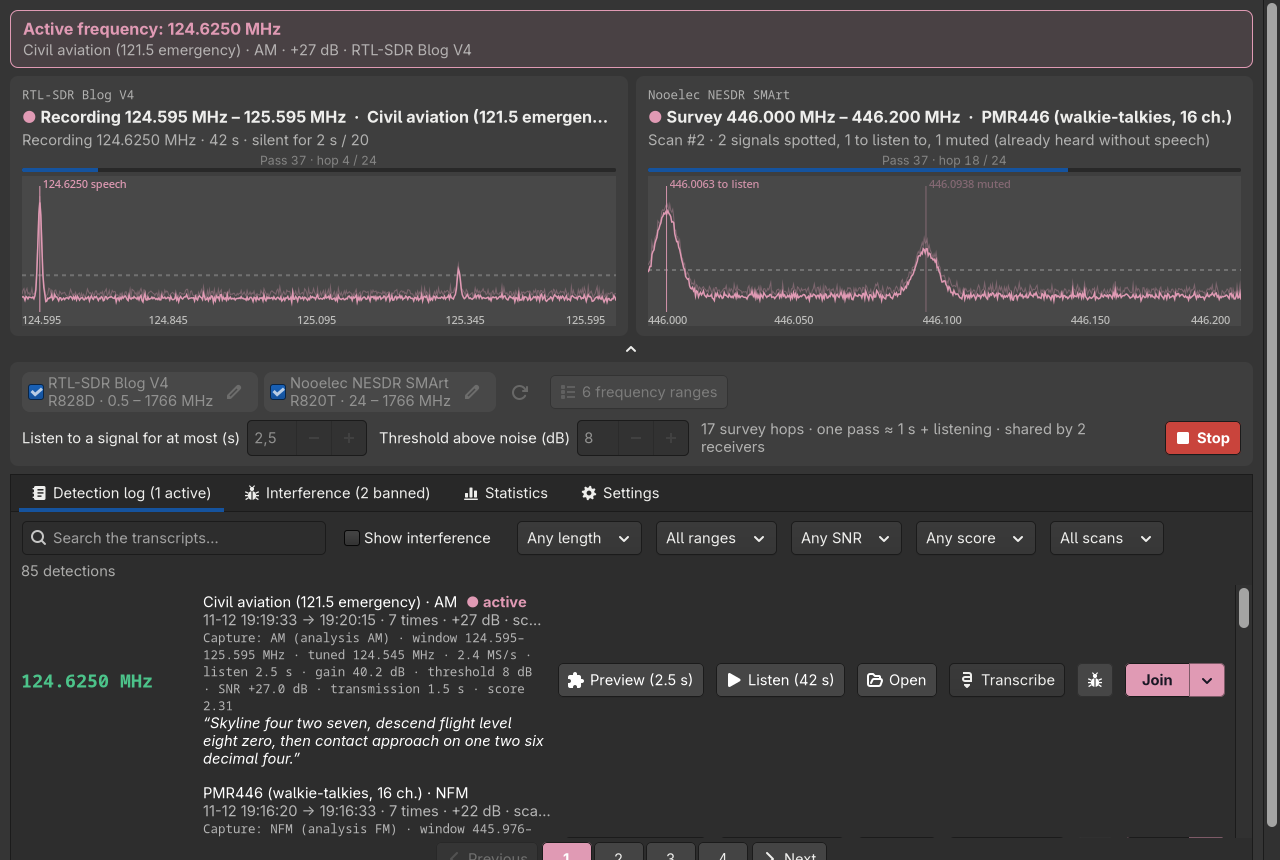
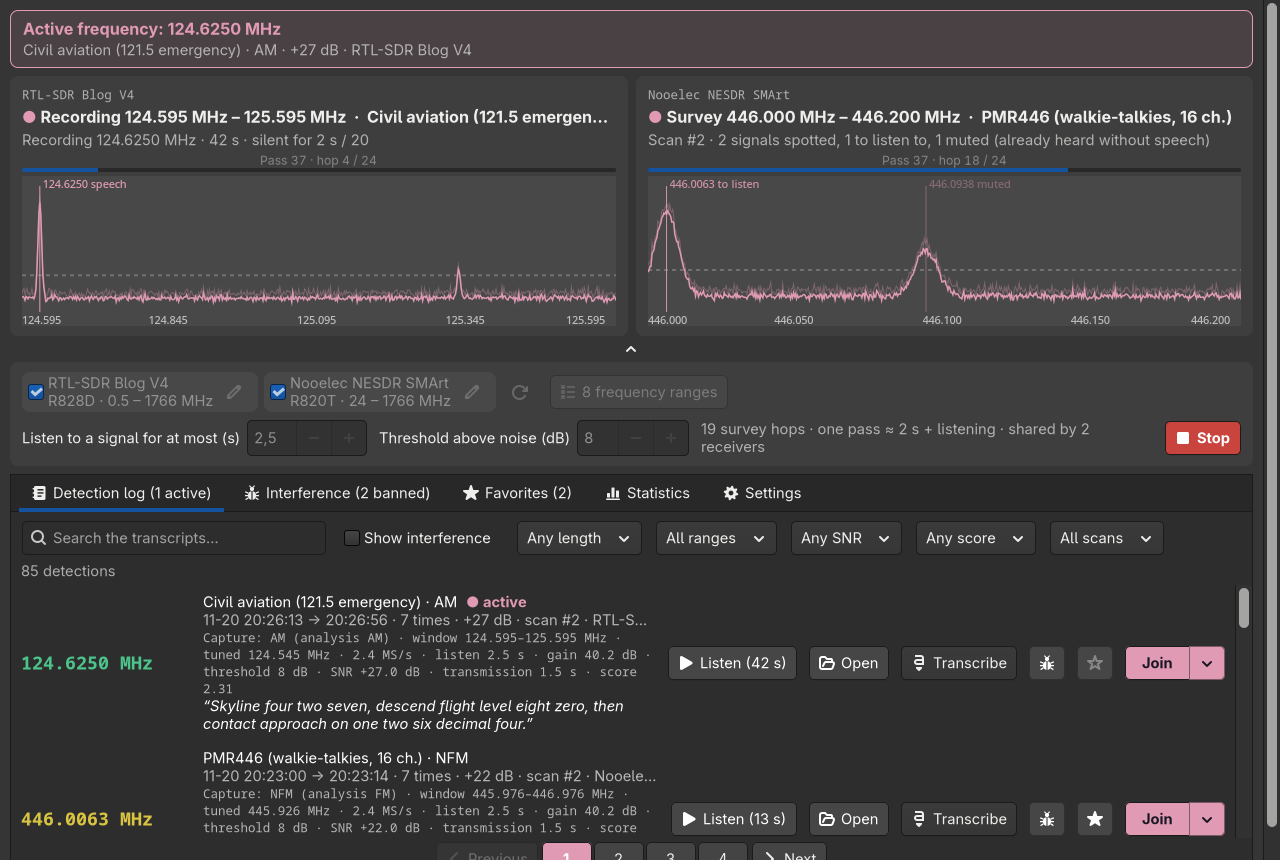
Docs: favorites
The README's Features and screenshots, AGENT.md's notes on the weighted
scan plan and the refused list, the design and the plan.

diff --git a/docs/superpowers/plans/2026-11-20-favorites.md b/docs/superpowers/plans/2026-11-20-favorites.md
@@ -1,0 +1,181 @@
+# Favorites Implementation Plan
+
+> **For agentic workers:** REQUIRED SUB-SKILL: Use superpowers:subagent-driven-development (recommended) or superpowers:executing-plans to implement this plan task-by-task. Steps use checkbox (`- [ ]`) syntax for tracking.
+
+**Goal:** Favorite frequencies (starred by hand or added automatically) that the scan visits 4 times per pass, a Favorites tab, and one play button per log row.
+
+**Architecture:** A favorite is a narrow `Band` carrying a `favorite` field ("manual" / "auto") in `ranges.json`. `ScanState` gives favorite hops a weight and spreads their extra visits through the pass. Pure helpers at module level hold the favorite rules (toggle, refused list, auto-add count), so they are tested without GTK; the window only wires them to a star button, a tab and a setting.
+
+**Tech Stack:** Python 3.8, numpy, PyGObject GTK 4, SQLite, `unittest`. Single file `archangesdr`.
+
+**Spec:** `docs/superpowers/specs/2026-11-20-favorites-design.md`
+
+## Global Constraints
+
+- One Python file `archangesdr`, no new dependency, Python 3.8 syntax (check: `python3 -c "import ast; ast.parse(open('archangesdr').read(), feature_version=(3, 8))"`).
+- GTK 4.0+ API; newer calls behind a check. Icons `starred-symbolic` / `non-starred-symbolic` (Adwaita, present since GTK 4.0 themes).
+- Constants at the top of the file with unit and reason: `FAVORITE_WEIGHT = 4`, `FAVORITE_AUTO_N = 5`, `FAVORITE_HALF_HZ = 6_250`.
+- Every new string in `lang/en.sh`, `fr.sh`, `de.sh`, `es.sh` with the same %-arguments (bash syntax, `'\''` for a quote).
+- Lists are updated row by row (`App.sync`); the Favorites tab is built only while shown; no whole-list rebuild on a star click.
+- English in code, comments, docs and commit messages. The README and AGENT.md change in the same commit as the code they describe.
+- Never touch the user's history in tests: use `tests.support.app()` and a temporary `Store`.
+- Work on the current branch (`standalone-only`); the user asked for no new branch.
+
+## Review Focus
+
+1. **Starring while a scan runs**: the new favorite's hop is appended live; receivers keep scanning, claim indices of other hops stay valid. → test in Task 2.
+2. **Removing a favorite whose hop is claimed right now** by a receiver: no crash, the hop is never picked again, `release` on it still works. → test in Task 2.
+3. **Starring a frequency 1 key away from an existing favorite** (e.g. 446.00625 vs 446.0125 MHz): no second favorite; the star shows filled. → test in Task 1.
+4. **"Replace with the region's ranges"** in the ranges dialog (`confirm_preset`) must keep the favorites, a reasonable user would not expect a preset to wipe them. → test in Task 1 (`with_favorites`), wired in Task 5.
+5. **A favorite unticked in the ranges dialog**: not scanned (no hop), still blocks auto-add and shows in the tab as paused. → test in Task 3.
+
+---
+
+### Task 1: Favorite bands and their rules
+
+**Files:**
+- Modify: `archangesdr` (constants near `BAN_PARASITE`; `Band` at ~441; new helpers right after `save_ranges` ~519)
+- Test: `tests/test_favorites.py` (new)
+
+**Interfaces:**
+- Produces:
+  - `Band(lo, hi, label, mode, section, enabled=None, color=None, favorite=None)`; `band.favorite in (None, "manual", "auto")`; `to_dict` writes `"favorite"` only when set; `from_dict` reads it.
+  - `fav_key(freq: float) -> int` (= `FreqRules.key`, 6.25 kHz steps; make `FreqRules.key` call it).
+  - `favorite_of(bands, freq) -> Band | None`: the favorite band whose centre key is within ±1 key of `freq`'s.
+  - `favorites_conf(settings: dict) -> dict`: `settings.setdefault("favorites", {})` with defaults `auto=False`, `refused=[]`.
+  - `add_favorite(bands, settings, freq, label, mode, kind="manual") -> Band`: returns the existing favorite if `favorite_of` finds one, else appends `Band(freq - FAVORITE_HALF_HZ, freq + FAVORITE_HALF_HZ, label, mode, T("L_SCN_FAV_GROUP"), True, favorite=kind)`; removes `fav_key(freq)` from `refused`.
+  - `remove_favorite(bands, settings, band) -> None`: removes it from `bands`, appends its centre key to `refused` (once).
+  - `with_favorites(new_bands, old_bands) -> list`: `new_bands` plus the favorites of `old_bands`.
+  - Callers save: `save_ranges(bands)` and `save_settings(settings)`; the helpers do no I/O.
+
+- [ ] **Step 1: Write the failing tests** in `tests/test_favorites.py`, class `Bands`:
+  - `test_round_trip`: `Band.from_dict(b.to_dict()).favorite == "auto"` for a favorite; an ordinary band's dict has no `"favorite"` key.
+  - `test_add_is_narrow_and_named_like_the_range`: `add_favorite([], s, 446.00625e6, "PMR446", "NFM")` → `lo == 446.00625e6 - 6250`, `hi == 446.00625e6 + 6250`, `label == "PMR446"`, `favorite == "manual"`, `enabled is True`, exactly 1 hop.
+  - `test_neighbour_key_is_the_same_favorite` (Review Focus 3): adding 446.0125e6 after 446.00625e6 returns the same object, `len(bands) == 1`; `favorite_of(bands, 446.0125e6)` is it; `favorite_of(bands, 446.025e6)` is None.
+  - `test_remove_refuses_and_add_unrefuses`: remove → `fav_key(f) in favorites_conf(s)["refused"]`, removing twice-added keys stays one entry; `add_favorite` again → key gone from `refused`.
+  - `test_preset_keeps_favorites` (Review Focus 4): `with_favorites([new], [old_range, fav])` == `[new, fav]`.
+
+- [ ] **Step 2: Run** `python3 -m unittest tests.test_favorites -v` → FAIL (`AttributeError: ... 'add_favorite'`).
+- [ ] **Step 3: Implement** the constants, the `Band` field, and the helpers listed above; `L_SCN_FAV_GROUP` in the four languages (en `Favorites`, fr `Favoris`, de `Favoriten`, es `Favoritos`).
+- [ ] **Step 4: Run** `python3 -m unittest tests.test_favorites tests.test_static -v` → PASS.
+- [ ] **Step 5: Commit** `git add archangesdr lang tests/test_favorites.py && git commit -m "Favorites: narrow bands with a favorite field, refused list"`
+
+### Task 2: Weighted, spread hop plan with live add / remove
+
+**Files:**
+- Modify: `archangesdr` `ScanState` (~2117-2215), `Scanner` uses of `st.hops` (check `hop_of`, `revisit`)
+- Test: `tests/test_scanner.py` class `Plan`
+
+**Interfaces:**
+- Consumes: `Band.favorite` (Task 1).
+- Produces:
+  - Each hop dict gains `"weight"` (`FAVORITE_WEIGHT` if `band.favorite` else 1), `"phase"` (float in [0, 1)) and `"gone"` (bool).
+  - `ScanState.add_band(band) -> None` (appends its hops at the end, under the lock, `_count()` again); `ScanState.remove_band(band) -> None` (marks its hops `gone`; `self.bands` updated).
+  - `passes` = `min(visits // weight)` over hops not gone; `max_passes` compares `visits // weight`.
+
+`pick` ordering (the algorithm the tests do not fully determine):
+
+```python
+due = (h["visits"] + h["phase"]) / h["weight"]
+key = (int(due), h["coverers"], due, i)     # pass first, then coverage, then place in the pass
+```
+
+Ordinary hops: `phase = i / n_ordinary` in sweep order (keeps today's order). Favorites: `phase = (j + 0.5) / n_favorites`, j their index among favorites. Gone hops are skipped. Recompute phases in `__init__` and `add_band`.
+
+- [ ] **Step 1: Write the failing tests:**
+  - `test_favorite_four_visits_spread`: 40 one-hop ordinary bands + 1 favorite, one receiver; pick/release 41×4 = 164 times; favorite picked exactly 16 times (4 per pass, `passes == 4`); the gaps between its consecutive picks are all ≥ 5 (never back to back).
+  - `test_pick_by_coverage_and_visits` still passes unchanged.
+  - `test_add_band_live` (Review Focus 1): claim hop 0 with receiver A, `add_band(fav)`, `release(0, True)` works, next picks reach the new hop, `hop_of(fav, centre)` is its index.
+  - `test_remove_claimed_band` (Review Focus 2): A claims the favorite's hop, `remove_band(fav)`, `release(i, True)` does not raise, the hop is never picked again, `passes` ignores it.
+- [ ] **Step 2: Run** `python3 -m unittest tests.test_scanner -v` → new tests FAIL.
+- [ ] **Step 3: Implement** the hop fields, `pick`, `passes`, `add_band`, `remove_band`; `hop_of` and the recency boost skip gone hops.
+- [ ] **Step 4: Run** `python3 -m unittest tests.test_scanner -v` → PASS.
+- [ ] **Step 5: Commit** `git commit -am "Scan plan: favorites visited FAVORITE_WEIGHT times per pass, spread"`
+
+### Task 3: Auto-add rule (5 successful listens, no time limit)
+
+**Files:**
+- Modify: `archangesdr` (`Store`, a helper after the Task 1 helpers)
+- Test: `tests/test_favorites.py` class `Auto`
+
+**Interfaces:**
+- Consumes: Task 1 helpers.
+- Produces:
+  - `Store.voice_count(freq: float) -> int`: `kind = 'voice'` detections (whole history) with `fav_key(freq)` within ±1 of `fav_key(detection freq)` (SQL range `ABS(freq - ?) < 1.5 * 6250` is acceptable).
+  - `auto_favorite(store, bands, settings, freq, label, mode) -> Band | None`: None unless `favorites_conf(settings)["auto"]`, the key is not refused, `store.rules.banned(freq)` is false, `favorite_of(bands, freq)` is None (ticked or not), and `store.voice_count(freq) >= FAVORITE_AUTO_N`; then `add_favorite(..., kind="auto")`.
+
+- [ ] **Step 1: Write the failing tests** (temporary `Store` as in `tests/test_recordings.py`, rows inserted with `INSERT INTO detections (freq, kind, first_seen, last_seen, hits) ...`):
+  - `test_five_listens_add`: 5 voice rows at 145.500e6, some of them 60 days old (no time limit) → returns a band, `favorite == "auto"`.
+  - `test_four_or_interference_do_not`: 4 rows → None; 5 `parasite` rows → None; 5 voice rows but the frequency banned (`store.rules.ban(...)`) → None.
+  - `test_off_refused_or_existing_do_not`: setting off → None; key refused → None; an existing favorite **unticked** (Review Focus 5) → None and no second band.
+- [ ] **Step 2: Run** `python3 -m unittest tests.test_favorites -v` → FAIL.
+- [ ] **Step 3: Implement** `Store.voice_count` and `auto_favorite`.
+- [ ] **Step 4: Run** → PASS.
+- [ ] **Step 5: Commit** `git commit -am "Favorites: automatic add after FAVORITE_AUTO_N conversations"`
+
+### Task 4: One play button per log row
+
+**Files:**
+- Modify: `archangesdr` `det_row` (~4458-4464)
+
+**Interfaces:** none new.
+
+- [ ] **Step 1: Change** `det_row`: if `r["recording"]` exists on disk → only `play_button(r["recording"], T("L_SCN_LISTEN", ...), T("L_SCN_REC_TIP", ...))`; elif `r["audio"]` exists → only the Preview button. The Interference tab's `rule_row` is unchanged. The row signature already carries `r.values()` (the `recording` path), so the row is rebuilt once when the recording closes: check it by reading `refresh_lists`.
+- [ ] **Step 2: Verify** in a copy with another application id (AGENT.md › Testing): a row with only a clip shows "Preview", a row with a recording shows "Listen" only. Run `tools/screenshots.py` and look at `main.png`.
+- [ ] **Step 3: Run** `python3 -m unittest` → PASS.
+- [ ] **Step 4: Commit** `git commit -am "Log: one play button, Preview until the recording is complete, then Listen"` (README: the log's buttons, if it names both).
+
+### Task 5: Star button and window wiring
+
+**Files:**
+- Modify: `archangesdr` (`det_row` after the bug button; new `App.toggle_favorite`, `App.favorites_changed`; `delete_range`, `confirm_preset`, `rebuild_ranges` group title), `lang/*.sh`
+
+**Interfaces:**
+- Consumes: Tasks 1-2.
+- Produces: `App.toggle_favorite(r: dict) -> None` (row of the log); `App.favorites_changed(added=None, removed=None) -> None`: `save_ranges(self.bands)`, `save_settings(self.settings)`, `self.state.add_band` / `remove_band` when a scan exists, `self.rebuild_ranges()`, `self.refresh_lists()`.
+
+- [ ] **Step 1: Implement** the star (`plain` CSS class, `valign=CENTER`, voice rows only, icon `starred-symbolic` if `favorite_of(self.bands, r["freq"])` else `non-starred-symbolic`, tooltip `L_SCN_FAV_ADD_TIP` / `L_SCN_FAV_REMOVE_TIP`); add the favorite state to the row signature so only that row is rebuilt. `delete_range` of a favorite goes through `remove_favorite`; `confirm_preset` uses `with_favorites`; the ranges dialog titles favorite bands' group with `T("L_SCN_FAV_GROUP")` whatever the stored section.
+- [ ] **Step 2: Strings** (four languages, same arguments): `L_SCN_FAV_ADD_TIP='Add %s to favorites: scanned %d times per pass'`, `L_SCN_FAV_REMOVE_TIP='Remove %s from favorites'` (fr: `'Ajouter %s aux favoris : scannée %d fois par passe'`, `'Retirer %s des favoris'`).
+- [ ] **Step 3: Verify** in a test copy: star a row, it fills, the ranges dialog shows it under Favorites; unstar, it goes; during a running fake scan (no dongle: `FakeSdr` harness or the screenshots script's receivers) nothing crashes.
+- [ ] **Step 4: Run** `python3 -m unittest` → PASS.
+- [ ] **Step 5: Commit** `git commit -am "Log: star button to add or remove a favorite"`
+
+### Task 6: Favorites tab
+
+**Files:**
+- Modify: `archangesdr` (tabs ~3465-3482, `refresh_lists`, new `App.fav_row`), `lang/*.sh`
+
+**Interfaces:**
+- Consumes: Tasks 1, 3 (`Store.voice_count`), 5 (`favorites_changed`).
+- Produces: `self.fav_page`, `self.fav_list`, `self.fav_tab_label`; `App.fav_row(band, n, last, rec, audio) -> Gtk.Widget`.
+
+- [ ] **Step 1: Implement** the tab between Interference and Statistics (`tab("starred-symbolic", ...)`, a hint label, `self.paged(self.fav_list, ...)` like the rules tab). In `refresh_lists`, when the tab is shown: for each favorite band, `n = voice_count(centre)`, the last voice detection near it (`last_seen`, `recording`, `audio`); rows via `self.sync`, key = band key. Row: `fmt_mhz(centre)`, label, mode, `P("L_SCN_FAV_LINE", n, n, when)` or `L_SCN_FAV_NEVER`, `L_SCN_FAV_AUTO` mark, `L_SCN_FAV_PAUSED` when unticked, one play button (Listen, else Preview), the filled star (removes via `favorites_changed`). Tab title `L_SCN_TAB_FAV_N` with the count, else `L_SCN_TAB_FAV`. Empty text `L_SCN_NO_FAV`.
+- [ ] **Step 2: Strings** (en / fr): `L_SCN_TAB_FAV` Favorites / Favoris; `L_SCN_TAB_FAV_N` Favorites (%d) / Favoris (%d); `L_SCN_FAV_HINT` 'Favorites are scanned %d times per pass. Star a speech row in the log to add one.' / 'Les favoris sont scannés %d fois par passe. Mets une étoile sur une ligne de parole du journal pour en ajouter.'; `L_SCN_FAV_LINE_1` / `_N` '%d conversation · last heard %s' / '%d conversations · last heard %s' (fr '... · dernière écoute %s'); `L_SCN_FAV_NEVER` never heard / jamais entendue; `L_SCN_FAV_AUTO` auto / auto; `L_SCN_FAV_PAUSED` 'paused (unticked in the ranges)' / 'en pause (décochée dans les plages)'; `L_SCN_NO_FAV` 'No favorites yet.' / 'Aucun favori pour l'\''instant.'.
+- [ ] **Step 3: Verify** in a test copy (and the window's minimum height: `win.measure(Gtk.Orientation.VERTICAL, -1)[0]` unchanged, ~100 px).
+- [ ] **Step 4: Run** `python3 -m unittest` → PASS.
+- [ ] **Step 5: Commit** `git commit -am "Favorites tab"`
+
+### Task 7: Auto-add setting
+
+**Files:**
+- Modify: `archangesdr` (Settings › Recordings after the alert checkbox ~5019; `on_hit`), `lang/*.sh`
+
+**Interfaces:**
+- Consumes: `auto_favorite` (Task 3), `favorites_changed` (Task 5).
+
+- [ ] **Step 1: Implement** a `Gtk.CheckButton(label=T("L_SCN_SET_FAV_AUTO"))` bound to `favorites_conf(self.settings)["auto"]` (saved with `save_settings`), and its `hint(T("L_SCN_SET_FAV_AUTO_HINT", FAVORITE_AUTO_N))`. In `on_hit`, for `new and sig["voice"]`: `band2 = auto_favorite(self.store, self.bands, self.settings, sig["freq"], band.label, sig["mode"])`; if not None → `favorites_changed(added=band2)` and `show_banner(T("L_SCN_FAV_ADDED", fmt_mhz(sig["freq"])), T("L_SCN_FAV_ADDED_BODY", FAVORITE_AUTO_N))`.
+- [ ] **Step 2: Strings** (en / fr): `L_SCN_SET_FAV_AUTO` 'Automatically add frequently heard frequencies to favorites' / 'Ajouter automatiquement aux favoris les fréquences entendues régulièrement'; `L_SCN_SET_FAV_AUTO_HINT` 'A frequency heard in %d conversations (not interference) becomes a favorite. A favorite you remove is never added back by itself.' / 'Une fréquence entendue dans %d conversations (hors parasites) devient un favori. Un favori retiré n'\''est jamais rajouté tout seul.'; `L_SCN_FAV_ADDED` 'New favorite: %s' / 'Nouveau favori : %s'; `L_SCN_FAV_ADDED_BODY` 'heard in %d conversations' / 'entendue dans %d conversations'.
+- [ ] **Step 3: Run** `python3 -m unittest` → PASS; verify the checkbox in a test copy.
+- [ ] **Step 4: Commit** `git commit -am "Settings: add frequently heard frequencies to favorites automatically"`
+
+### Task 8: Docs and screenshots
+
+**Files:**
+- Modify: `README.md` (Features, Usage), `AGENT.md` (scan plan weight and spread, `favorite` field, refused list, the single play button), `tools/screenshots.py` (two favorites in the demo data, a `take("favorites")`), `docs/screenshots/*.png`
+- Commit the spec and this plan too.
+
+- [ ] **Step 1: Update** the README and AGENT.md; search the README for "Preview" / "Listen" wording made wrong by Task 4.
+- [ ] **Step 2: Run** `tools/screenshots.py`; look at every image (`main.png`, `favorites.png`, `settings.png`, `ranges.png`).
+- [ ] **Step 3: Run** the full checks: `python3 -m unittest`, the Python 3.8 parse, `bash -n lang/*.sh install.sh` → all pass.
+- [ ] **Step 4: Commit** `git add README.md AGENT.md tools docs && git commit -m "Docs: favorites"`
+- [ ] **Step 5: Remind the user** that `./install.sh` copies the program to `~/.local/share/archangesdr/app` and the running window must be restarted.

diff --git a/docs/superpowers/specs/2026-11-20-favorites-design.md b/docs/superpowers/specs/2026-11-20-favorites-design.md
@@ -1,0 +1,132 @@
+# Favorites: design
+
+Date: 2026-11-20. Status: approved by the user in conversation.
+
+## Why
+
+Some frequencies come back often in the detection log. In a big scan (hundreds of hops, most of them
+silent), they are visited no more often than any empty hop, so conversations on them are missed. The
+user wants to mark those frequencies as favorites, by hand or automatically, and have the scan come
+back to them **more often**, while still sweeping the wide ranges.
+
+In the same change, the log row's two play buttons ("Preview" and "Listen") become one.
+
+## Goals
+
+1. **One play button per log row.** It shows "Preview (2.5 s)" (the capture, `PREVIEW_ICON`) while the
+   row has no complete recording; once the row's `recording` exists (written by `Store` when the
+   `Recording` closes), the same place shows "Listen (N s)" (the recording) instead. The Interference
+   tab keeps its Preview button as it is.
+2. **A star button right of the bug button**, on speech rows (`kind = 'voice'`), toggling the row's
+   frequency as a favorite. Filled star (`starred-symbolic`) when it is one, outline
+   (`non-starred-symbolic`) otherwise; tooltip says which action a click does.
+3. **A "Favorites" tab** right of the Interference tab (before Statistics), star icon. One row per
+   favorite: frequency, name, mode, number of speech conversations heard there, last heard, a Listen
+   button for the last recording (or Preview if none), an "auto" mark for auto-added ones, and the star
+   to remove it. Tab title shows the count, like the other tabs.
+4. **A setting** in Settings › Recordings: "Automatically add frequently heard frequencies to
+   favorites", **off by default**. Rule: **5 successful listens** at the frequency (speech conversations, `kind = 'voice'`, the frequency not banned as interference), with **no time limit** (changed by the user after approval: no 7-day window).
+5. **Favorites are scanned more often**: each favorite hop is visited `FAVORITE_WEIGHT` = 4 times per
+   pass instead of once.
+
+## Non-goals
+
+- Favorites are not the whitelist: they keep the speech test, are not exempt from muting / banning
+  beyond what already exists. The two stay separate features.
+- No time-based revisit (the recency boost stays as it is, unrelated).
+- No editing of favorite parameters in the Favorites tab beyond what the ranges dialog already allows.
+
+## Anti-goals
+
+- An auto-added favorite the user removed must **never come back by itself**; otherwise removing is
+  pointless.
+- The whole log must not be rebuilt on a star click (see "Lists are updated row by row" in AGENT.md):
+  the star changes in place like the Play buttons.
+- Favorites must not slow down the scan of the other ranges beyond their weight (a favorite is one
+  narrow hop: 4 × 0.16 s per pass).
+
+## Approaches considered
+
+- **A. A "Favorites" group in the ranges only.** Simple, but a favorite hop is visited once per pass
+  like any other: in a big scan it changes nothing. Rejected: does not meet the why.
+- **B. A permanent revisit timer** (like the recency boost: a 0.1 s survey every X s). Works, but a
+  second scheduling mechanism outside the hop plan, harder to share between receivers.
+- **C. A "Favorites" group in the ranges + a weight in the hop plan.** Chosen by the user. Favorites
+  are ranges (tickable, editable, deletable in the ranges dialog like any other), and
+  `ScanState.pick` visits a favorite hop `FAVORITE_WEIGHT` times per pass. One plan, works with
+  several receivers, the pass count stays right.
+
+## Design
+
+### Storage
+
+- A favorite is a `Band` in `ranges.json`: `lo` / `hi` = frequency ± 6.25 kHz, the row's mode, label =
+  the row's range label as it is (e.g. "PMR446", never with the frequency appended: `Store.hit` stores
+  `band.label`, and the Statistics filters and colours go by label, so hits on a favorite hop count
+  under the same range as before; the UI shows the frequency next to it), enabled, and a new field
+  `favorite`: `"manual"` or `"auto"` (absent / None for ordinary ranges; `to_dict` / `from_dict` carry
+  it). Its `section` is the translated "Favorites" group name (a new string), but code identifies
+  favorites by the `favorite` field, never by the section name (it changes with the language).
+- A frequency "is a favorite" when an existing favorite band contains it (match on the 6.25 kHz key
+  ±1 key, as `FreqRules` does). Toggling off deletes that band.
+- Refused favorites: `settings["favorites"]["refused"]`, a list of 6.25 kHz keys. **Any** removal of a
+  favorite (manual or auto, by the star, the Favorites tab or the trash button of the ranges dialog)
+  adds its key there, so auto-add never brings back what the user took away. Adding it back by hand
+  removes the key.
+- Unticked in the ranges dialog, a favorite stays a favorite (filled star, row in the tab marked
+  "paused", counted, blocks auto-add) but is not scanned. The favorite state lives in one place: the
+  bands with a `favorite` field.
+- Setting: `settings["favorites"]["auto"]` (bool, default False).
+
+### Scan weight
+
+- `ScanState` hops get a `weight` (4 for a favorite band, 1 otherwise); `passes` is
+  `min(visits // weight)`; `max_passes` compares against `visits // weight`.
+- **The extra visits are spread evenly through the pass** (builder's call, from the review): a plain
+  `visits / weight` ordering in `pick` would give the favorite its 4 visits back to back at the end of
+  each pass, then nothing for a whole pass, which defeats the why. A favorite hop is due again once
+  about 1 / weight of the pass has gone by since its last visit (e.g. its due point measured in
+  ordinary-hop picks); the exact key is the builder's, the test is: with one receiver and N ordinary
+  hops, the gaps between a favorite's visits are about N / 4 picks, never 0 in a row.
+- A favorite added or removed while a scan runs takes effect live (`ScanState` adds / drops its hops
+  under its lock); a removed hop that is claimed is dropped when released.
+- A favorite that lies inside another enabled range is covered twice per pass. Accepted: that is
+  "more often".
+
+### Auto-add
+
+- Checked in the window process when a **new speech row** is stored (`App.on_hit` with `new` true), if
+  the setting is on: count `kind = 'voice'` detections within ±1 6.25 kHz key of the frequency, over the
+  whole history. At 5 or more, the frequency not banned (`FreqRules.banned`), and the key neither a
+  favorite nor refused, add a
+  favorite with `favorite = "auto"` and show a short banner (`show_banner`) saying so.
+- Constants at the top of the file: `FAVORITE_WEIGHT = 4`, `FAVORITE_AUTO_N = 5`,
+  `FAVORITE_HALF_HZ = 6_250`.
+
+### UI
+
+- Log row: the single play button replaces the two current ones (`build_journal` row builder near
+  `L_SCN_PREVIEW` / `L_SCN_LISTEN`). The row signature must include whether the recording exists, so
+  the row is rebuilt once when the recording lands (already the case if the signature carries
+  `recording`).
+- Star: `plain` CSS class like the bug, placed right after it, voice rows only.
+- Favorites tab: same paging / row-by-row `sync` pattern as the Interference tab, built only while
+  shown. Its list is the favorite bands joined with the detection counts.
+- New strings in the four `lang/*.sh` files: tab title (+ count), group name, star tooltips (add /
+  remove), "auto" mark, setting label and tip, banner, empty-tab text.
+
+### Docs and checks
+
+- README: Features (favorites, auto-add, single play button), Usage (the star, the tab, the setting).
+- AGENT.md: the favorite weight in the scan plan, the `favorite` field, the refused list.
+- Screenshots regenerated (`tools/screenshots.py`), the demo data gets a couple of favorites and a
+  `favorites.png` of the new tab.
+- Tests: `pick` with weights (a favorite visited 4× per pass, `passes` right, two receivers),
+  `Band` round trip with `favorite`, auto-add rule (threshold, window, refused), strings in four
+  languages (existing static test).
+
+## Left to the builder
+
+- Exact column layout of the Favorites tab rows and the star's tooltip wording.
+- Whether the auto-add count query reuses `FreqRules`' key helpers or its own SQL.
+- How the live hop add / remove is wired between the window and `ScanState`.

diff --git a/AGENT.md b/AGENT.md
@@ -113,6 +113,19 @@ and keeps its files in its own folders (see Files below).
   when speech is confirmed (from `LISTEN_VOICE_S` = 1.5 s); the dwell setting is the maximum.
   `analyze` runs several times per listen, so it must stay free of side effects: the continuous-carrier
   counting is in `Detector.track`, called once at the end.
+- **Favorites** (`Band.favorite`: "manual" / "auto"; `add_favorite`, `remove_favorite`, `favorite_of`,
+  `auto_favorite`): a favorite is a ±`FAVORITE_HALF_HZ` range in `ranges.json`, marked by its `favorite` field,
+  never by its group's name (translated). Its hop has a `weight` (`FAVORITE_WEIGHT` = 4 visits per pass) and
+  a `phase` in the pass: `ScanState.pick` orders by (pass, coverers, place in the pass), so the 4 visits are
+  a quarter of a pass apart; a plain visits / weight order gave them back to back at the end of each pass.
+  A favorite starred during a scan is added to it at once (`ScanState.add_band`); a removed one is marked
+  `gone` (hop indices stay: claims and boosts hold them). Every removal (star, tab, ranges dialog) puts its
+  6.25 kHz key in `settings["favorites"]["refused"]` (±1 key matches), so the automatic add
+  (`FAVORITE_AUTO_N` = 5 speech conversations, whole history, not banned) never brings back what the user
+  took away. An unticked favorite is still one (not scanned). A region preset keeps the favorites
+  (`with_favorites`). Hits on a favorite hop keep the range's label (statistics by label).
+- **One play button per log row** (`play_choice`, `App.row_play_button`): Preview (the 2.5 s capture) until
+  the row's recording is on disk (its path is stored when the `Recording` closes), then Listen.
 - **Recency boost** (`ScanState.boosts`, `Scanner.revisit`): after a recording, the conversation's
   window gets a 0.1 s survey every `RECENCY_EVERY_S` = 8 s for `RECENCY_S` = 90 s, between two hops,
   and a listen if it is back.
@@ -187,7 +200,7 @@ and keeps its files in its own folders (see Files below).
 
 One column, top to bottom: the scan cards (one per receiver, full width), the scan bar (receivers,
 "N ranges" button opening the ranges modal, dwell, threshold, Start), then the tabs: Detection log
-(filters; the former Active tab is the "active" badge on its rows), Interference, Statistics,
+(filters; the former Active tab is the "active" badge on its rows), Interference, Favorites, Statistics,
 Settings. The whole column is in `scroll_column`. Buttons that carry an action have an icon and a text
 (`icon_button`); Start / Stop use the `primary` / `danger` CSS classes (white text) rather than the
 theme's `suggested-action`, which some GTK themes draw with dark text. Themes: "Dark" and "Light" draw GTK's built-in theme and icons with the app's palettes
@@ -334,6 +347,7 @@ tools/screenshots.py          # → docs/screenshots/*.png (about 30 s)
 - Steps run one after the other (`do` / `take`): a screenshot is saved before the next step changes the
   window. A new screenshot is a `take(...)` line, plus a link in the README's caption.
 - Files: `main.png` (README), `main-light.png`, `log-search.png`, `statistics.png`, `interference.png`,
+  `favorites.png`,
   `settings.png`, `settings-transcription.png`, `ranges.png`.
 
 ## Conventions

diff --git a/README.md b/README.md
@@ -12,6 +12,7 @@ PC to a ClockworkPi uConsole.
 log lists what was heard, with its transcript.*
 More screenshots: [searching the transcripts](docs/screenshots/log-search.png) ·
 [statistics](docs/screenshots/statistics.png) · [interference](docs/screenshots/interference.png) ·
+[favorites](docs/screenshots/favorites.png) ·
 [frequency ranges](docs/screenshots/ranges.png) · [settings](docs/screenshots/settings.png) ·
 [notifications and transcription](docs/screenshots/settings-transcription.png) ·
 [light theme](docs/screenshots/main-light.png)
@@ -37,6 +38,12 @@ that, which keeps it fast on a small ARM board.
 - **Interference memory**: a frequency heard 3 times in a row without speech is banned for good; mark
   the false positives as "not interference", or ban by hand a capture that is not speech (the bug
   button of a log row).
+- **Favorites**: star a speech row of the log (the star next to the bug) and its channel is scanned 4
+  times per pass, its visits spread through the pass, so a busy frequency is not lost in a large scan.
+  They have their own tab (how many conversations, the last one to play) and their own group in the
+  frequency ranges, where they can be unticked or deleted. Optionally (**Settings → Recordings**), a
+  frequency heard in 5 conversations (interference does not count) becomes a favorite by itself; a
+  favorite you remove is never added back by itself.
 - **Several receivers** share the work, each taking first what only it can tune (HF on a Blog V4), never
   two on the same frequency. RTL-SDR dongles out of the box; HackRF, Airspy, SDRplay, LimeSDR, PlutoSDR…
   through SoapySDR (optional).
